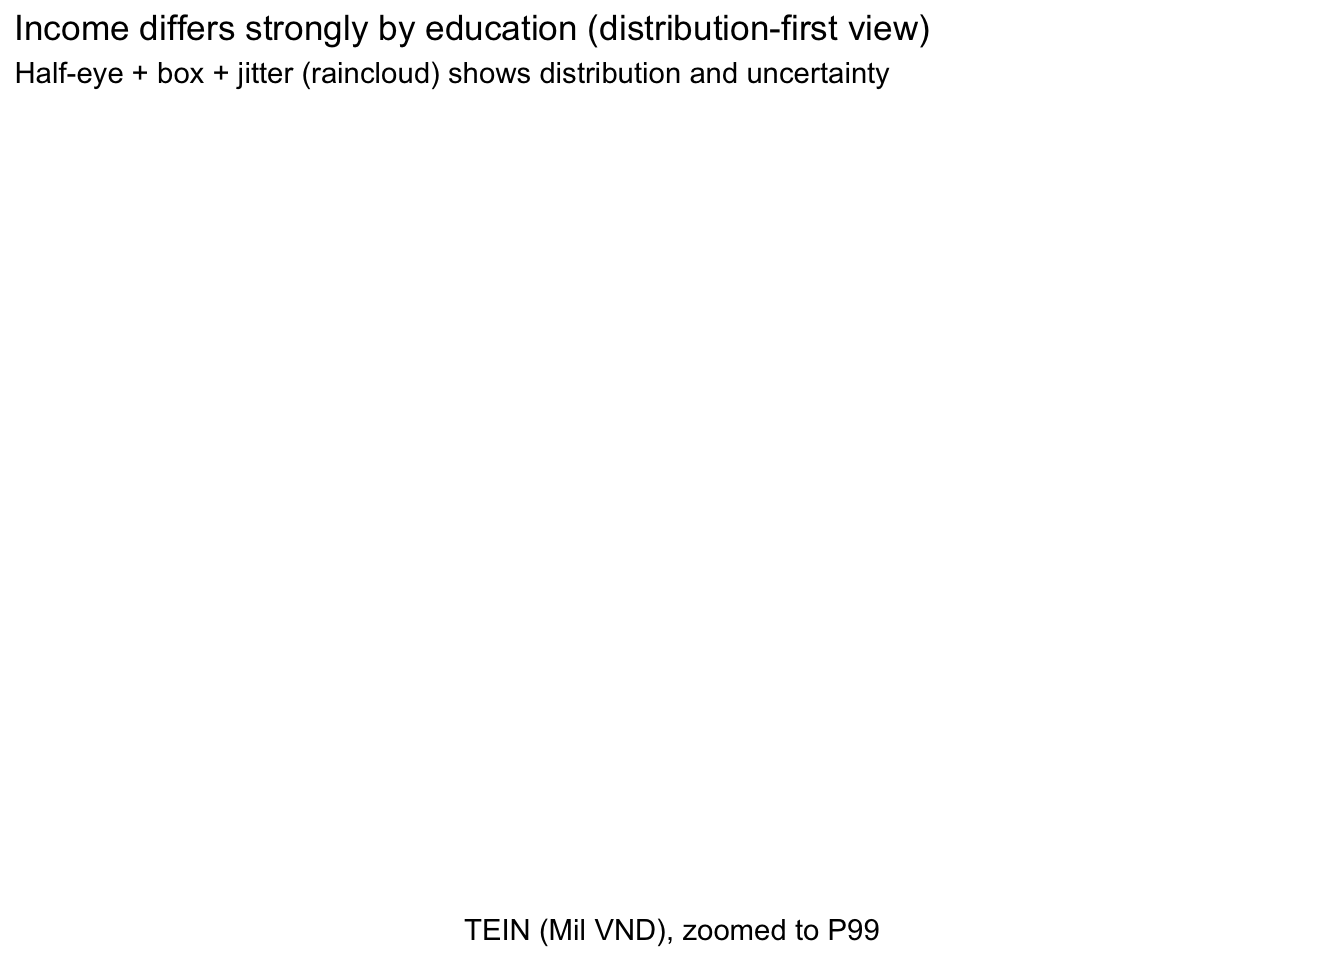
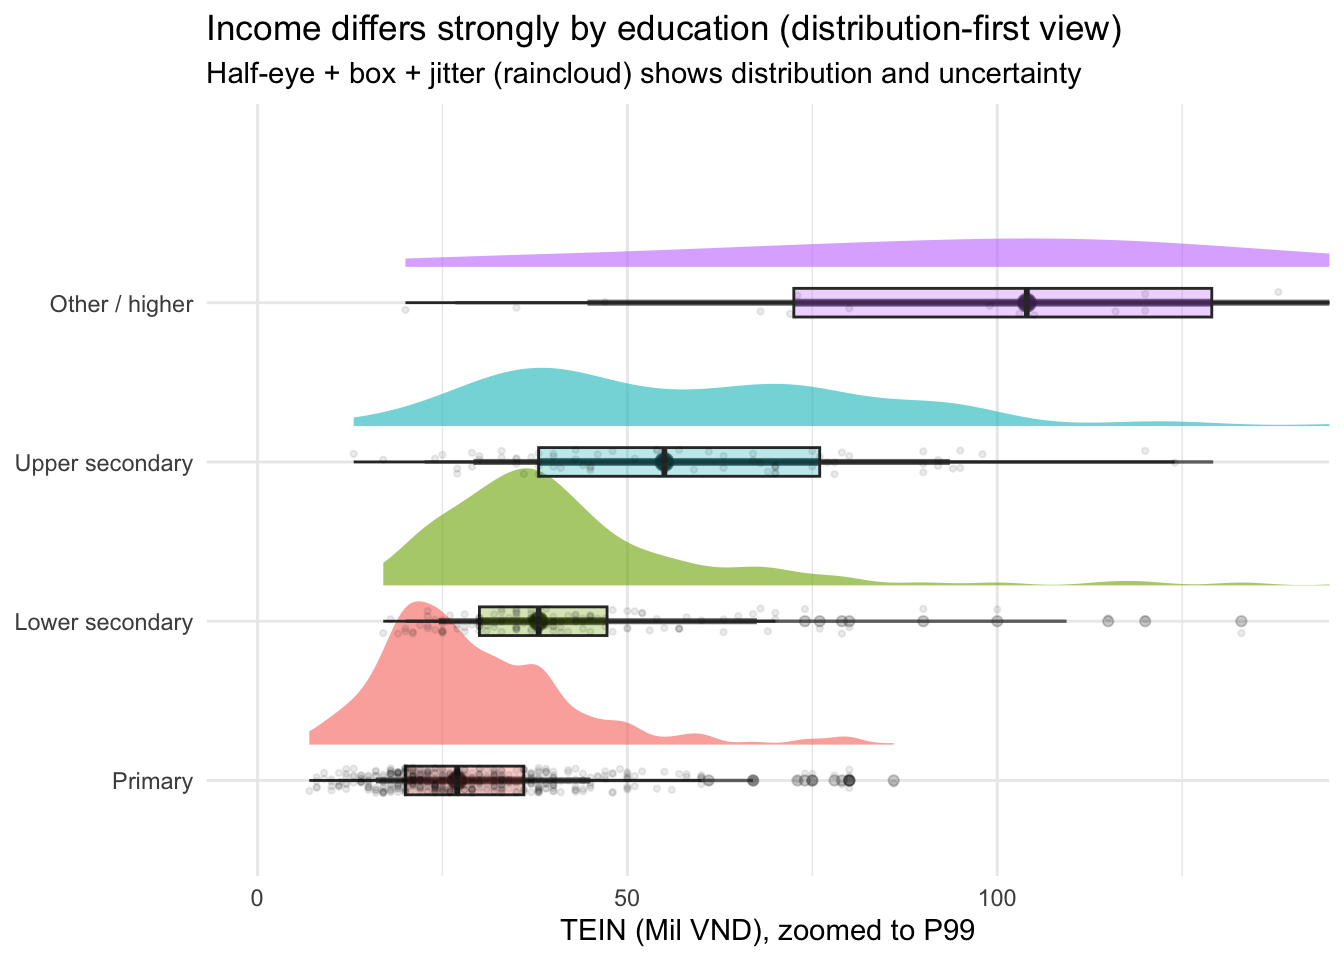
commit take1

diff --git a/_site/Take-on-Exercise1/Take-on-Exercise1.html b/_site/Take-on-Exercise1/Take-on-Exercise1.html
@@ -204,7 +204,7 @@ pre > code.sourceCode > span > a:first-child::before { text-decoration: underlin
 <h1>Truthful, Visually-Driven Survey Analysis Income of Rural Informal Labourers in Northern Vietnam</h1>
 <section id="objective-and-dataset" class="level2">
 <h2 class="anchored" data-anchor-id="objective-and-dataset">1. Objective and dataset</h2>
-<p>This report delivers 5–10 visually-driven observations from a rural informal labour survey in Northern Vietnam, using static ggplot2 visualizations . The dataset contains 725 rows and 30 variables, and a preliminary audit detects 2 duplicated rows. A key measurement property is validated: wherever all components are present, TEIN = TAIN + TSII + TOIN holds exactly . This supports truthful “income composition” visuals.</p>
+<p>This report delivers 5–10 visually-driven observations from a rural informal labour survey in Northern Vietnam, using static ggplot2 visualizations . The dataset contains 725 rows and 30 variables, and a preliminary audit detects 2 duplicated rows. A key measurement property is validated: wherever all components are present, TEIN = TAIN + TSII + TOIN holds exactly . This su›pports truthful “income composition” visuals.</p>
 <section id="data-preparation" class="level3">
 <h3 class="anchored" data-anchor-id="data-preparation">1.1 Data Preparation</h3>
 <div class="cell">
@@ -360,28 +360,27 @@ $ ARO5 &lt;dbl&gt; 1, 1, 1, NA, 1, 1, 3, 3, 3, 3, 3, NA, NA, 1, NA, NA, NA, NA, 
 <span id="cb11-31"><a href="#cb11-31" aria-hidden="true" tabindex="-1"></a></span>
 <span id="cb11-32"><a href="#cb11-32" aria-hidden="true" tabindex="-1"></a>    <span class="at">FEDU =</span> <span class="fu">factor</span>(FEDU, <span class="at">levels =</span> <span class="fu">c</span>(<span class="dv">0</span>, <span class="dv">1</span>, <span class="dv">2</span>, <span class="dv">3</span>),</span>
 <span id="cb11-33"><a href="#cb11-33" aria-hidden="true" tabindex="-1"></a>                  <span class="at">labels =</span> <span class="fu">c</span>(<span class="st">"Primary"</span>, <span class="st">"Lower secondary"</span>, <span class="st">"Upper secondary"</span>, <span class="st">"Other / higher"</span>)),</span>
-<span id="cb11-34"><a href="#cb11-34" aria-hidden="true" tabindex="-1"></a></span>
-<span id="cb11-35"><a href="#cb11-35" aria-hidden="true" tabindex="-1"></a>    <span class="at">FVTP =</span> <span class="fu">factor</span>(FVTP, <span class="at">levels =</span> <span class="fu">c</span>(<span class="dv">1</span>, <span class="dv">2</span>), <span class="at">labels =</span> <span class="fu">c</span>(<span class="st">"Short courses"</span>, <span class="st">"Long courses"</span>)),</span>
-<span id="cb11-36"><a href="#cb11-36" aria-hidden="true" tabindex="-1"></a>    <span class="at">FVTP =</span> <span class="fu">fct_explicit_na</span>(FVTP, <span class="st">"Missing (FVTP)"</span>),</span>
-<span id="cb11-37"><a href="#cb11-37" aria-hidden="true" tabindex="-1"></a></span>
-<span id="cb11-38"><a href="#cb11-38" aria-hidden="true" tabindex="-1"></a>    <span class="at">FCRA =</span> <span class="fu">factor</span>(FCRA, <span class="at">levels =</span> <span class="fu">c</span>(<span class="dv">1</span>, <span class="dv">2</span>), <span class="at">labels =</span> <span class="fu">c</span>(<span class="st">"Credit inaccessible"</span>, <span class="st">"Credit accessible"</span>)),</span>
-<span id="cb11-39"><a href="#cb11-39" aria-hidden="true" tabindex="-1"></a>    <span class="at">FCRA =</span> <span class="fu">fct_explicit_na</span>(FCRA, <span class="st">"Missing (FCRA)"</span>),</span>
-<span id="cb11-40"><a href="#cb11-40" aria-hidden="true" tabindex="-1"></a></span>
-<span id="cb11-41"><a href="#cb11-41" aria-hidden="true" tabindex="-1"></a>    <span class="at">FTAP =</span> <span class="fu">factor</span>(FTAP, <span class="at">levels =</span> <span class="fu">c</span>(<span class="dv">1</span>, <span class="dv">2</span>), <span class="at">labels =</span> <span class="fu">c</span>(<span class="st">"Low technique"</span>, <span class="st">"Adequate technique"</span>)),</span>
-<span id="cb11-42"><a href="#cb11-42" aria-hidden="true" tabindex="-1"></a>    <span class="at">FTAP =</span> <span class="fu">fct_explicit_na</span>(FTAP, <span class="st">"Missing (FTAP)"</span>),</span>
-<span id="cb11-43"><a href="#cb11-43" aria-hidden="true" tabindex="-1"></a></span>
-<span id="cb11-44"><a href="#cb11-44" aria-hidden="true" tabindex="-1"></a>    <span class="co"># Housing type derived from one-hot indicators</span></span>
-<span id="cb11-45"><a href="#cb11-45" aria-hidden="true" tabindex="-1"></a>    <span class="at">house_type =</span> <span class="fu">case_when</span>(</span>
-<span id="cb11-46"><a href="#cb11-46" aria-hidden="true" tabindex="-1"></a>      LHO1 <span class="sc">==</span> <span class="dv">1</span> <span class="sc">~</span> <span class="st">"Cottage house"</span>,</span>
-<span id="cb11-47"><a href="#cb11-47" aria-hidden="true" tabindex="-1"></a>      LHO2 <span class="sc">==</span> <span class="dv">1</span> <span class="sc">~</span> <span class="st">"Roofed house"</span>,</span>
-<span id="cb11-48"><a href="#cb11-48" aria-hidden="true" tabindex="-1"></a>      LHO3 <span class="sc">==</span> <span class="dv">1</span> <span class="sc">~</span> <span class="st">"Solid house"</span>,</span>
-<span id="cb11-49"><a href="#cb11-49" aria-hidden="true" tabindex="-1"></a>      LHO4 <span class="sc">==</span> <span class="dv">1</span> <span class="sc">~</span> <span class="st">"Building"</span>,</span>
-<span id="cb11-50"><a href="#cb11-50" aria-hidden="true" tabindex="-1"></a>      <span class="cn">TRUE</span> <span class="sc">~</span> <span class="st">"Missing/Unknown"</span></span>
-<span id="cb11-51"><a href="#cb11-51" aria-hidden="true" tabindex="-1"></a>    ) <span class="sc">%&gt;%</span> <span class="fu">factor</span>(<span class="at">levels =</span> <span class="fu">c</span>(<span class="st">"Cottage house"</span>, <span class="st">"Roofed house"</span>, <span class="st">"Solid house"</span>, <span class="st">"Building"</span>, <span class="st">"Missing/Unknown"</span>)),</span>
-<span id="cb11-52"><a href="#cb11-52" aria-hidden="true" tabindex="-1"></a></span>
-<span id="cb11-53"><a href="#cb11-53" aria-hidden="true" tabindex="-1"></a>    <span class="co"># log1p for skewed income (keeps zeros defined)</span></span>
-<span id="cb11-54"><a href="#cb11-54" aria-hidden="true" tabindex="-1"></a>    <span class="at">log1p_TEIN =</span> <span class="fu">log1p</span>(TEIN)</span>
-<span id="cb11-55"><a href="#cb11-55" aria-hidden="true" tabindex="-1"></a>  )</span></code></pre></div><button title="Copy to Clipboard" class="code-copy-button"><i class="bi"></i></button></div>
+<span id="cb11-34"><a href="#cb11-34" aria-hidden="true" tabindex="-1"></a>    <span class="at">FVTP =</span> <span class="fu">factor</span>(FVTP, <span class="at">levels =</span> <span class="fu">c</span>(<span class="dv">1</span>, <span class="dv">2</span>), <span class="at">labels =</span> <span class="fu">c</span>(<span class="st">"Short courses"</span>, <span class="st">"Long courses"</span>)),</span>
+<span id="cb11-35"><a href="#cb11-35" aria-hidden="true" tabindex="-1"></a>    <span class="at">FVTP =</span> <span class="fu">fct_explicit_na</span>(FVTP, <span class="st">"Missing (FVTP)"</span>),</span>
+<span id="cb11-36"><a href="#cb11-36" aria-hidden="true" tabindex="-1"></a></span>
+<span id="cb11-37"><a href="#cb11-37" aria-hidden="true" tabindex="-1"></a>    <span class="at">FCRA =</span> <span class="fu">factor</span>(FCRA, <span class="at">levels =</span> <span class="fu">c</span>(<span class="dv">1</span>, <span class="dv">2</span>), <span class="at">labels =</span> <span class="fu">c</span>(<span class="st">"Credit inaccessible"</span>, <span class="st">"Credit accessible"</span>)),</span>
+<span id="cb11-38"><a href="#cb11-38" aria-hidden="true" tabindex="-1"></a>    <span class="at">FCRA =</span> <span class="fu">fct_explicit_na</span>(FCRA, <span class="st">"Missing (FCRA)"</span>),</span>
+<span id="cb11-39"><a href="#cb11-39" aria-hidden="true" tabindex="-1"></a></span>
+<span id="cb11-40"><a href="#cb11-40" aria-hidden="true" tabindex="-1"></a>    <span class="at">FTAP =</span> <span class="fu">factor</span>(FTAP, <span class="at">levels =</span> <span class="fu">c</span>(<span class="dv">1</span>, <span class="dv">2</span>), <span class="at">labels =</span> <span class="fu">c</span>(<span class="st">"Low technique"</span>, <span class="st">"Adequate technique"</span>)),</span>
+<span id="cb11-41"><a href="#cb11-41" aria-hidden="true" tabindex="-1"></a>    <span class="at">FTAP =</span> <span class="fu">fct_explicit_na</span>(FTAP, <span class="st">"Missing (FTAP)"</span>),</span>
+<span id="cb11-42"><a href="#cb11-42" aria-hidden="true" tabindex="-1"></a></span>
+<span id="cb11-43"><a href="#cb11-43" aria-hidden="true" tabindex="-1"></a>    <span class="co"># Housing type derived from one-hot indicators</span></span>
+<span id="cb11-44"><a href="#cb11-44" aria-hidden="true" tabindex="-1"></a>    <span class="at">house_type =</span> <span class="fu">case_when</span>(</span>
+<span id="cb11-45"><a href="#cb11-45" aria-hidden="true" tabindex="-1"></a>      LHO1 <span class="sc">==</span> <span class="dv">1</span> <span class="sc">~</span> <span class="st">"Cottage house"</span>,</span>
+<span id="cb11-46"><a href="#cb11-46" aria-hidden="true" tabindex="-1"></a>      LHO2 <span class="sc">==</span> <span class="dv">1</span> <span class="sc">~</span> <span class="st">"Roofed house"</span>,</span>
+<span id="cb11-47"><a href="#cb11-47" aria-hidden="true" tabindex="-1"></a>      LHO3 <span class="sc">==</span> <span class="dv">1</span> <span class="sc">~</span> <span class="st">"Solid house"</span>,</span>
+<span id="cb11-48"><a href="#cb11-48" aria-hidden="true" tabindex="-1"></a>      LHO4 <span class="sc">==</span> <span class="dv">1</span> <span class="sc">~</span> <span class="st">"Building"</span>,</span>
+<span id="cb11-49"><a href="#cb11-49" aria-hidden="true" tabindex="-1"></a>      <span class="cn">TRUE</span> <span class="sc">~</span> <span class="st">"Missing/Unknown"</span></span>
+<span id="cb11-50"><a href="#cb11-50" aria-hidden="true" tabindex="-1"></a>    ) <span class="sc">%&gt;%</span> <span class="fu">factor</span>(<span class="at">levels =</span> <span class="fu">c</span>(<span class="st">"Cottage house"</span>, <span class="st">"Roofed house"</span>, <span class="st">"Solid house"</span>, <span class="st">"Building"</span>, <span class="st">"Missing/Unknown"</span>)),</span>
+<span id="cb11-51"><a href="#cb11-51" aria-hidden="true" tabindex="-1"></a></span>
+<span id="cb11-52"><a href="#cb11-52" aria-hidden="true" tabindex="-1"></a>    <span class="co"># log1p for skewed income (keeps zeros defined)</span></span>
+<span id="cb11-53"><a href="#cb11-53" aria-hidden="true" tabindex="-1"></a>    <span class="at">log1p_TEIN =</span> <span class="fu">log1p</span>(TEIN)</span>
+<span id="cb11-54"><a href="#cb11-54" aria-hidden="true" tabindex="-1"></a>  )</span></code></pre></div><button title="Copy to Clipboard" class="code-copy-button"><i class="bi"></i></button></div>
 </div>
 <p>Missingness is heavily concentrated in housing/loan/savings fields (e.g., LCRE, LSAV, LHO1–LHO4). Importantly, housing indicators behave like a&nbsp;<strong>one-choice encoding</strong>: most respondents have&nbsp;<strong>exactly one</strong>&nbsp;of LHO1–LHO4 filled, while others remain NA. This is&nbsp;<strong>structural missingness</strong>, not “non-response”.Treating these NAs as “missing at random” and applying&nbsp;<code>drop_na()</code>&nbsp;would bias the sample and distort subgroup comparisons.</p>
 <div class="cell">
@@ -474,42 +473,35 @@ $ ARO5 &lt;dbl&gt; 1, 1, 1, NA, 1, 1, 3, 3, 3, 3, 3, NA, NA, 1, NA, NA, NA, NA, 
 <span id="cb14-3"><a href="#cb14-3" aria-hidden="true" tabindex="-1"></a><span class="fu">library</span>(ggplot2)</span>
 <span id="cb14-4"><a href="#cb14-4" aria-hidden="true" tabindex="-1"></a><span class="fu">library</span>(ggdist)</span>
 <span id="cb14-5"><a href="#cb14-5" aria-hidden="true" tabindex="-1"></a></span>
-<span id="cb14-6"><a href="#cb14-6" aria-hidden="true" tabindex="-1"></a>df <span class="ot">&lt;-</span> elsiver <span class="sc">%&gt;%</span></span>
-<span id="cb14-7"><a href="#cb14-7" aria-hidden="true" tabindex="-1"></a>  <span class="fu">mutate</span>(</span>
-<span id="cb14-8"><a href="#cb14-8" aria-hidden="true" tabindex="-1"></a>    <span class="at">FEDU =</span> <span class="fu">factor</span>(</span>
-<span id="cb14-9"><a href="#cb14-9" aria-hidden="true" tabindex="-1"></a>      FEDU,</span>
-<span id="cb14-10"><a href="#cb14-10" aria-hidden="true" tabindex="-1"></a>      <span class="at">levels =</span> <span class="fu">c</span>(<span class="dv">0</span>, <span class="dv">1</span>, <span class="dv">2</span>, <span class="dv">3</span>),</span>
-<span id="cb14-11"><a href="#cb14-11" aria-hidden="true" tabindex="-1"></a>      <span class="at">labels =</span> <span class="fu">c</span>(<span class="st">"Primary"</span>, <span class="st">"Lower secondary"</span>, <span class="st">"Upper secondary"</span>, <span class="st">"Other / higher"</span>)</span>
-<span id="cb14-12"><a href="#cb14-12" aria-hidden="true" tabindex="-1"></a>    )</span>
-<span id="cb14-13"><a href="#cb14-13" aria-hidden="true" tabindex="-1"></a>  ) <span class="sc">%&gt;%</span></span>
-<span id="cb14-14"><a href="#cb14-14" aria-hidden="true" tabindex="-1"></a>  <span class="fu">filter</span>(<span class="sc">!</span><span class="fu">is.na</span>(TEIN), <span class="sc">!</span><span class="fu">is.na</span>(FEDU))</span>
-<span id="cb14-15"><a href="#cb14-15" aria-hidden="true" tabindex="-1"></a></span>
-<span id="cb14-16"><a href="#cb14-16" aria-hidden="true" tabindex="-1"></a></span>
-<span id="cb14-17"><a href="#cb14-17" aria-hidden="true" tabindex="-1"></a>p99 <span class="ot">&lt;-</span> <span class="fu">quantile</span>(df<span class="sc">$</span>TEIN, <span class="fl">0.99</span>, <span class="at">na.rm =</span> <span class="cn">TRUE</span>)</span>
-<span id="cb14-18"><a href="#cb14-18" aria-hidden="true" tabindex="-1"></a></span>
-<span id="cb14-19"><a href="#cb14-19" aria-hidden="true" tabindex="-1"></a><span class="fu">ggplot</span>(df, <span class="fu">aes</span>(<span class="at">y =</span> FEDU, <span class="at">x =</span> TEIN, <span class="at">fill =</span> FEDU)) <span class="sc">+</span></span>
-<span id="cb14-20"><a href="#cb14-20" aria-hidden="true" tabindex="-1"></a>  <span class="fu">stat_halfeye</span>(</span>
-<span id="cb14-21"><a href="#cb14-21" aria-hidden="true" tabindex="-1"></a>    <span class="at">adjust =</span> <span class="fl">0.8</span>,</span>
-<span id="cb14-22"><a href="#cb14-22" aria-hidden="true" tabindex="-1"></a>    <span class="at">justification =</span> <span class="sc">-</span><span class="fl">0.25</span>,</span>
-<span id="cb14-23"><a href="#cb14-23" aria-hidden="true" tabindex="-1"></a>    <span class="at">.width =</span> <span class="fu">c</span>(<span class="fl">0.5</span>, <span class="fl">0.8</span>, <span class="fl">0.95</span>),</span>
-<span id="cb14-24"><a href="#cb14-24" aria-hidden="true" tabindex="-1"></a>    <span class="at">point_interval =</span> <span class="st">"median_qi"</span>,</span>
-<span id="cb14-25"><a href="#cb14-25" aria-hidden="true" tabindex="-1"></a>    <span class="at">alpha =</span> <span class="fl">0.6</span></span>
-<span id="cb14-26"><a href="#cb14-26" aria-hidden="true" tabindex="-1"></a>  ) <span class="sc">+</span></span>
-<span id="cb14-27"><a href="#cb14-27" aria-hidden="true" tabindex="-1"></a>  <span class="fu">geom_boxplot</span>(<span class="at">width =</span> <span class="fl">0.18</span>, <span class="at">outlier.alpha =</span> <span class="fl">0.25</span>, <span class="at">alpha =</span> <span class="fl">0.3</span>) <span class="sc">+</span></span>
-<span id="cb14-28"><a href="#cb14-28" aria-hidden="true" tabindex="-1"></a>  <span class="fu">geom_point</span>(</span>
-<span id="cb14-29"><a href="#cb14-29" aria-hidden="true" tabindex="-1"></a>    <span class="at">position =</span> <span class="fu">position_jitter</span>(<span class="at">height =</span> <span class="fl">0.08</span>, <span class="at">width =</span> <span class="dv">0</span>),</span>
-<span id="cb14-30"><a href="#cb14-30" aria-hidden="true" tabindex="-1"></a>    <span class="at">alpha =</span> <span class="fl">0.08</span>,</span>
-<span id="cb14-31"><a href="#cb14-31" aria-hidden="true" tabindex="-1"></a>    <span class="at">size =</span> <span class="fl">0.8</span></span>
+<span id="cb14-6"><a href="#cb14-6" aria-hidden="true" tabindex="-1"></a><span class="co"># CORRECTED raincloud plot code</span></span>
+<span id="cb14-7"><a href="#cb14-7" aria-hidden="true" tabindex="-1"></a>df <span class="ot">&lt;-</span> elsiver <span class="sc">%&gt;%</span></span>
+<span id="cb14-8"><a href="#cb14-8" aria-hidden="true" tabindex="-1"></a>  <span class="fu">filter</span>(<span class="sc">!</span><span class="fu">is.na</span>(TEIN), <span class="sc">!</span><span class="fu">is.na</span>(FEDU)) </span>
+<span id="cb14-9"><a href="#cb14-9" aria-hidden="true" tabindex="-1"></a></span>
+<span id="cb14-10"><a href="#cb14-10" aria-hidden="true" tabindex="-1"></a>p99 <span class="ot">&lt;-</span> <span class="fu">quantile</span>(df<span class="sc">$</span>TEIN, <span class="fl">0.99</span>, <span class="at">na.rm =</span> <span class="cn">TRUE</span>)</span>
+<span id="cb14-11"><a href="#cb14-11" aria-hidden="true" tabindex="-1"></a></span>
+<span id="cb14-12"><a href="#cb14-12" aria-hidden="true" tabindex="-1"></a><span class="fu">ggplot</span>(df, <span class="fu">aes</span>(<span class="at">y =</span> FEDU, <span class="at">x =</span> TEIN, <span class="at">fill =</span> FEDU)) <span class="sc">+</span></span>
+<span id="cb14-13"><a href="#cb14-13" aria-hidden="true" tabindex="-1"></a>  <span class="fu">stat_halfeye</span>(</span>
+<span id="cb14-14"><a href="#cb14-14" aria-hidden="true" tabindex="-1"></a>    <span class="at">adjust =</span> <span class="fl">0.8</span>,</span>
+<span id="cb14-15"><a href="#cb14-15" aria-hidden="true" tabindex="-1"></a>    <span class="at">justification =</span> <span class="sc">-</span><span class="fl">0.25</span>,</span>
+<span id="cb14-16"><a href="#cb14-16" aria-hidden="true" tabindex="-1"></a>    <span class="at">.width =</span> <span class="fu">c</span>(<span class="fl">0.5</span>, <span class="fl">0.8</span>, <span class="fl">0.95</span>),</span>
+<span id="cb14-17"><a href="#cb14-17" aria-hidden="true" tabindex="-1"></a>    <span class="at">point_interval =</span> <span class="st">"median_qi"</span>,</span>
+<span id="cb14-18"><a href="#cb14-18" aria-hidden="true" tabindex="-1"></a>    <span class="at">alpha =</span> <span class="fl">0.6</span></span>
+<span id="cb14-19"><a href="#cb14-19" aria-hidden="true" tabindex="-1"></a>  ) <span class="sc">+</span></span>
+<span id="cb14-20"><a href="#cb14-20" aria-hidden="true" tabindex="-1"></a>  <span class="fu">geom_boxplot</span>(<span class="at">width =</span> <span class="fl">0.18</span>, <span class="at">outlier.alpha =</span> <span class="fl">0.25</span>, <span class="at">alpha =</span> <span class="fl">0.3</span>) <span class="sc">+</span></span>
+<span id="cb14-21"><a href="#cb14-21" aria-hidden="true" tabindex="-1"></a>  <span class="fu">geom_point</span>(</span>
+<span id="cb14-22"><a href="#cb14-22" aria-hidden="true" tabindex="-1"></a>    <span class="at">position =</span> <span class="fu">position_jitter</span>(<span class="at">height =</span> <span class="fl">0.08</span>, <span class="at">width =</span> <span class="dv">0</span>),</span>
+<span id="cb14-23"><a href="#cb14-23" aria-hidden="true" tabindex="-1"></a>    <span class="at">alpha =</span> <span class="fl">0.08</span>,</span>
+<span id="cb14-24"><a href="#cb14-24" aria-hidden="true" tabindex="-1"></a>    <span class="at">size =</span> <span class="fl">0.8</span></span>
+<span id="cb14-25"><a href="#cb14-25" aria-hidden="true" tabindex="-1"></a>  ) <span class="sc">+</span></span>
+<span id="cb14-26"><a href="#cb14-26" aria-hidden="true" tabindex="-1"></a>  <span class="fu">coord_cartesian</span>(<span class="at">xlim =</span> <span class="fu">c</span>(<span class="dv">0</span>, p99)) <span class="sc">+</span></span>
+<span id="cb14-27"><a href="#cb14-27" aria-hidden="true" tabindex="-1"></a>  <span class="fu">labs</span>(</span>
+<span id="cb14-28"><a href="#cb14-28" aria-hidden="true" tabindex="-1"></a>    <span class="at">title =</span> <span class="st">"Income differs strongly by education (distribution-first view)"</span>,</span>
+<span id="cb14-29"><a href="#cb14-29" aria-hidden="true" tabindex="-1"></a>    <span class="at">subtitle =</span> <span class="st">"Half-eye + box + jitter (raincloud) shows distribution and uncertainty"</span>,</span>
+<span id="cb14-30"><a href="#cb14-30" aria-hidden="true" tabindex="-1"></a>    <span class="at">x =</span> <span class="st">"TEIN (Mil VND), zoomed to P99"</span>,</span>
+<span id="cb14-31"><a href="#cb14-31" aria-hidden="true" tabindex="-1"></a>    <span class="at">y =</span> <span class="cn">NULL</span></span>
 <span id="cb14-32"><a href="#cb14-32" aria-hidden="true" tabindex="-1"></a>  ) <span class="sc">+</span></span>
-<span id="cb14-33"><a href="#cb14-33" aria-hidden="true" tabindex="-1"></a>  <span class="fu">coord_cartesian</span>(<span class="at">xlim =</span> <span class="fu">c</span>(<span class="dv">0</span>, p99)) <span class="sc">+</span></span>
-<span id="cb14-34"><a href="#cb14-34" aria-hidden="true" tabindex="-1"></a>  <span class="fu">labs</span>(</span>
-<span id="cb14-35"><a href="#cb14-35" aria-hidden="true" tabindex="-1"></a>    <span class="at">title =</span> <span class="st">"Income differs strongly by education (distribution-first view)"</span>,</span>
-<span id="cb14-36"><a href="#cb14-36" aria-hidden="true" tabindex="-1"></a>    <span class="at">subtitle =</span> <span class="st">"Half-eye + box + jitter (raincloud) shows distribution and uncertainty"</span>,</span>
-<span id="cb14-37"><a href="#cb14-37" aria-hidden="true" tabindex="-1"></a>    <span class="at">x =</span> <span class="st">"TEIN (Mil VND), zoomed to P99"</span>,</span>
-<span id="cb14-38"><a href="#cb14-38" aria-hidden="true" tabindex="-1"></a>    <span class="at">y =</span> <span class="cn">NULL</span></span>
-<span id="cb14-39"><a href="#cb14-39" aria-hidden="true" tabindex="-1"></a>  ) <span class="sc">+</span></span>
-<span id="cb14-40"><a href="#cb14-40" aria-hidden="true" tabindex="-1"></a>  <span class="fu">theme_minimal</span>() <span class="sc">+</span></span>
-<span id="cb14-41"><a href="#cb14-41" aria-hidden="true" tabindex="-1"></a>  <span class="fu">theme</span>(<span class="at">legend.position =</span> <span class="st">"none"</span>)</span></code></pre></div><button title="Copy to Clipboard" class="code-copy-button"><i class="bi"></i></button></div>
+<span id="cb14-33"><a href="#cb14-33" aria-hidden="true" tabindex="-1"></a>  <span class="fu">theme_minimal</span>() <span class="sc">+</span></span>
+<span id="cb14-34"><a href="#cb14-34" aria-hidden="true" tabindex="-1"></a>  <span class="fu">theme</span>(<span class="at">legend.position =</span> <span class="st">"none"</span>)</span></code></pre></div><button title="Copy to Clipboard" class="code-copy-button"><i class="bi"></i></button></div>
 <div class="cell-output-display">
 <div>
 <figure class="figure">
